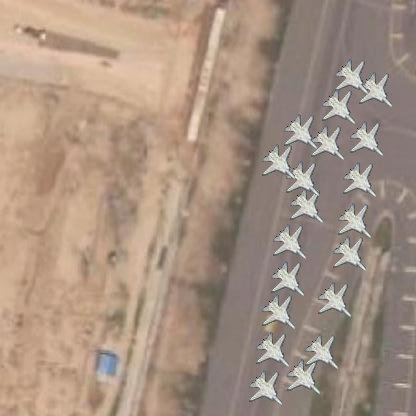
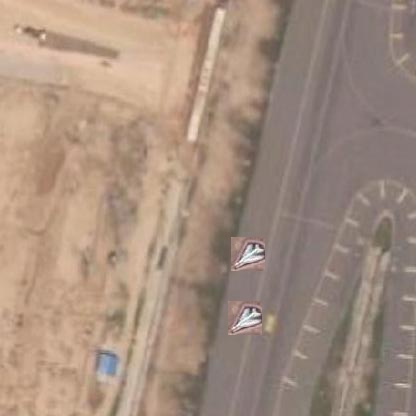
labels fix

Changed region(s): [[0.5312, 0.1562, 0.9375, 0.9688], [0.7812, 0.5, 0.9062, 0.6562]]

diff --git a/setup.py b/setup.py
@@ -4,6 +4,7 @@ import numpy as np
 from PIL import Image
 from generate_labels import pascal_voc_to_yolo
 import PySimpleGUI as sg
+from tqdm import tqdm
 
 global coordinates, fore_g_image, dir_fg_img, list_
 coordinates = []
@@ -36,11 +37,11 @@ def coordinates_on_click(event, x, y, flags, params, offset=5, object_dim=[40,40
         coordinates.append(coord)
       
 imgs = glob.glob('Dataset/background_images/*.jpg')
-for bg_images in imgs:
+for bg_images in tqdm(imgs):
     base_name = os.path.basename(bg_images)
     bg_images_ = cv2.imread(bg_images)
     H, W, _ = bg_images_.shape
-    print('Base Image Dim =',H,'x',W)
+    # print('Base Image:',base_name,'==> Dim =',H,'x',W)
     dir_fg_img = popup_wind()
     cv2.imshow('image', bg_images_)
     cv2.setMouseCallback('image', coordinates_on_click)
@@ -70,8 +71,10 @@ for bg_images in imgs:
                                     obj_pt[0]+fw, obj_pt[1]+fh,
                                     W, H)
             
+            # print(dir_fg_img.split('/')[-2][0])
+            class_no = dir_fg_img.split('/')[-2][0]
             txt_file = open('Dataset/Dataset_output/'+base_name[:-4]+'.txt', 'a')
-            txt_file.write('0 '+str(bb[0])+' '+str(bb[1])+' '+str(bb[2])+' '+str(bb[3])+'\n')
+            txt_file.write(class_no+' '+str(bb[0])+' '+str(bb[1])+' '+str(bb[2])+' '+str(bb[3])+'\n')
             txt_file.close()
 
         cv2.imwrite('Dataset/Dataset_output/'+base_name,obj_img_cv_bgr)
